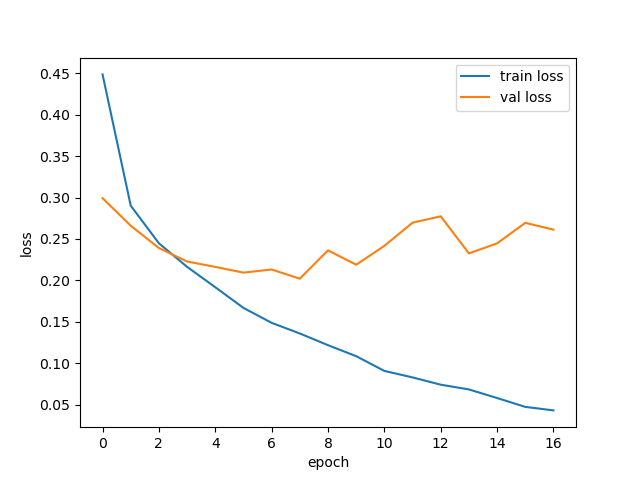
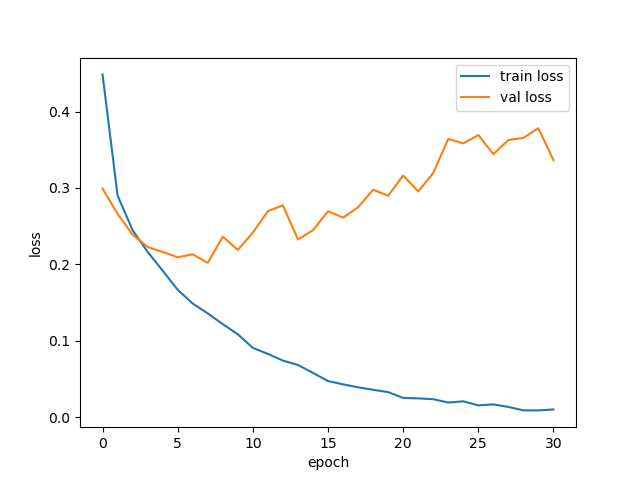
Refactor YODA classifier training and evaluation code

diff --git a/Lab4/test_YODA.py b/Lab4/test_YODA.py
@@ -1,0 +1,125 @@
+from model import ModFrontend, VGG
+import os
+import torch
+from torchvision import datasets, transforms, models
+from Kitti.KittiDataset import KittiDataset
+from Kitti.KittiAnchors import Anchors
+import matplotlib.pyplot as plt
+import cv2
+from PIL import Image
+
+def test(args):
+    device = torch.device('cuda' if args.cuda and torch.cuda.is_available() else 'cpu')
+
+    if args.model_name == 'resnet18':
+        model = models.resnet18(pretrained=True)
+        model.fc = torch.nn.Linear(512, 1)
+        print('Using resnet18')
+    elif args.model_name == 'mod' or args.model_name == 'mod2':
+        encoder = VGG.encoder
+        encoder.load_state_dict(torch.load('encoder.pth', map_location=device))
+        model = ModFrontend(encoder)
+        print('Using mod')
+    else:
+        print('Model not found, using resnet18')
+        model = models.resnet18(pretrained=True)
+        model.fc = torch.nn.Linear(512, 1)
+
+    model_path = os.path.join('models', args.model_name + '.pth')
+    model.load_state_dict(torch.load(model_path, map_location=device))
+
+    model.to(device)
+
+    transform = transforms.Compose([
+        transforms.Resize((150, 150)),
+        transforms.ToTensor(),
+        transforms.Normalize([0.3656, 0.3844, 0.3725], [0.4194, 0.4075, 0.4239])
+    ])
+
+    dataset = KittiDataset(args.data_dir, training=False)
+    anchors = Anchors()
+
+    model.eval()
+
+    ious = []
+
+
+    with torch.no_grad():
+        for item in enumerate(dataset):
+            idx = item[0]
+            image = item[1][0]
+            label = item[1][1]
+
+            idx = dataset.class_label['Car']
+            car_ROIs = dataset.strip_ROIs(class_ID=idx, label_list=label)
+
+            anchor_centers = anchors.calc_anchor_centers(image.shape, anchors.grid)
+            anchor_ROIs, boxes = anchors.get_anchor_ROIs(image, anchor_centers, anchors.shapes)
+
+            image_copy = image.copy()
+
+            ROI_IoUs = []
+            for idx in range(len(anchor_ROIs)):
+                ROI = anchor_ROIs[idx]
+                ROI = Image.fromarray(ROI)
+                ROI = transform(ROI)
+                ROI = ROI.unsqueeze(0)
+                ROI = ROI.to(device)
+
+                output = model(ROI)
+                output = torch.sigmoid(output)
+                output = output.item()
+
+                if output > IoU_threshold:
+                    ROI_IoUs += [anchors.calc_IoU(boxes[idx], car_ROIs)]
+                else:
+                    ROI_IoUs += [0]
+            
+            ious += [max(ROI_IoUs)]
+
+            print('Image: ', idx, ' IoU: ', max(ROI_IoUs))
+        
+        print('Average IoU: ', sum(ious)/len(ious))
+    
+    return
+
+
+
+
+            
+
+            
+      
+
+
+
+
+
+    
+
+
+
+if __name__ == '__main__':
+    import argparse
+    parser = argparse.ArgumentParser(description='Train YODA classifier')
+    parser.add_argument('--model_name', type=str, default='mod2', help='model name (default: resnet18)')
+    parser.add_argument('--data_dir', type=str, default='data/Kitti8/', help='path to dataset')
+    parser.add_argument('--save_dir', type=str, default='images/', help='path to save images')
+    parser.add_argument('--cuda', type=bool, default=True, help='enables CUDA for proces')
+    parser.add_argument('--IoU', metavar='IoU_threshold', type=float, default=0.02, help='[0.02]')
+    args = parser.parse_args()
+
+    IoU_threshold = 0.02
+    if args.IoU != None:
+        IoU_threshold = float(args.IoU)
+
+    print('Parameters:')
+    print('\tModel name:\t', args.model_name)
+    print('\tModel Path:\t', os.path.join('models', args.model_name + '.pth'))
+    print('\tData dir:\t', args.data_dir)
+    print('\tSave dir:\t', args.save_dir)
+    print('\tIoU:\t\t', IoU_threshold)
+
+    print('\n')
+
+    test(args)

diff --git a/Lab4/test_YODA_classifier.py b/Lab4/test_YODA_classifier.py
@@ -1,0 +1,102 @@
+import argparse
+import torch
+from torchvision import datasets, transforms, models
+import os
+from torch.utils.data import Dataset
+from YODADataset import YODADataset
+from model import ModFrontend, VGG
+from utils import plot_loss 
+from tqdm import tqdm
+import time
+from torch.optim.lr_scheduler import StepLR
+import matplotlib.pyplot as plt
+import warnings
+from torch.optim.lr_scheduler import ReduceLROnPlateau
+from sklearn.metrics import confusion_matrix, classification_report, f1_score, accuracy_score
+warnings.filterwarnings("ignore")
+
+
+
+transform = transforms.Compose([
+    transforms.Resize((150, 150)),  
+    transforms.ToTensor(),
+    transforms.Normalize([0.3656, 0.3844, 0.3725], [0.4194, 0.4075, 0.4239])
+])
+
+
+def evaluate(args):
+    mem_pin = False
+    if args.cuda and torch.cuda.is_available():
+        device = torch.device('cuda')
+        mem_pin = True
+    else:
+        device = torch.device('cpu')
+    print('Found device ', device)
+        
+
+    if args.model_name == 'resnet18':
+        model = models.resnet18(pretrained=True)
+        model.fc = torch.nn.Linear(512, 1)
+        print('Using resnet18')
+    elif args.model_name == 'mod' or args.model_name == 'mod2':
+        encoder = VGG.encoder
+        encoder.load_state_dict(torch.load('encoder.pth', map_location=device))
+        model = ModFrontend(encoder)
+        print('Using mod')
+    else:
+        print('Model not found, using resnet18')
+        model = models.resnet18(pretrained=True)
+        model.fc = torch.nn.Linear(512, 1)
+
+    model_path = os.path.join('models', args.model_name + '.pth')
+    model.load_state_dict(torch.load(model_path, map_location=device))
+        
+    
+    model.to(device)
+
+    test_dataset = YODADataset(args.data_dir, training=False, transform=transform)
+
+    test_loader = torch.utils.data.DataLoader(test_dataset, batch_size=args.batch_size, shuffle=False, num_workers=args.threads, pin_memory=mem_pin)
+
+    model.eval()
+
+    y_true = []
+    y_pred = []
+
+    with torch.no_grad():
+        for batch_idx, (data, target) in enumerate(tqdm(test_loader)):
+            data, target = data.to(device), target.to(device)
+            output = model(data)
+            pred = torch.sigmoid(output)
+            pred = torch.round(pred)
+            y_true.append(target.item())
+            y_pred.append(pred.item())
+    
+    print('Accuracy: ', accuracy_score(y_true, y_pred))
+    print('F1 score: ', f1_score(y_true, y_pred))
+    print('Confusion matrix: ')
+    print(confusion_matrix(y_true, y_pred))
+    print('Classification report: ')
+    print(classification_report(y_true, y_pred))
+
+
+
+if __name__ == '__main__':
+    parser = argparse.ArgumentParser(description='Train YODA classifier')
+    parser.add_argument('--batch_size', type=int, default=75, help='input batch size for training (default: 32)')
+    parser.add_argument('--model_name', type=str, default='mod2', help='model name (default: resnet18)')
+    parser.add_argument('--data_dir', type=str, default='data/Kitti8_ROIs/', help='path to dataset')
+    parser.add_argument('--cuda', type=bool, default=True, help='use cuda?')
+    parser.add_argument('--threads', type=int, default=6, help='number of threads for data loader to use')
+    args = parser.parse_args()
+
+
+    print('Parameters:')
+    print('\tmodel_name:\t ', args.model_name)
+    print('\tdata_dir:\t ', args.data_dir)
+    print('\tbatch_size:\t ', args.batch_size)
+    print('\tthreads:\t ', args.threads)
+    print('\tcuda:\t\t ', args.cuda) 
+    print('\n')
+
+    evaluate(args)

diff --git a/Lab4/train_YODA_classifier.py b/Lab4/train_YODA_classifier.py
@@ -11,6 +11,7 @@ import time
 from torch.optim.lr_scheduler import StepLR
 import matplotlib.pyplot as plt
 import warnings
+from torch.optim.lr_scheduler import ReduceLROnPlateau
 warnings.filterwarnings("ignore")
 
 
@@ -31,6 +32,7 @@ train_transforms = transforms.Compose([
     transforms.ToTensor(),
     transforms.Normalize([0.3656, 0.3844, 0.3725], [0.4194, 0.4075, 0.4239])
 ])
+
 
 
 def train(args):
@@ -80,6 +82,7 @@ def train(args):
     best_test_acc = 100000
 
     scheduler = StepLR(optimizer, step_size=5, gamma=0.95)
+    reduce_lr_scheduler = ReduceLROnPlateau(optimizer, mode='min', factor=0.1, patience=5, verbose=True)
 
     for epoch in range(args.epochs):
         print('Epoch: ', epoch)
@@ -114,7 +117,8 @@ def train(args):
         test_losses.append(test_loss)
         print('Test Loss: ', test_loss)
         scheduler.step()          
- 
+        reduce_lr_scheduler.step(test_loss)  
+    
         print('Time: ', end-start, 's')
 
         if test_loss < best_test_acc:
